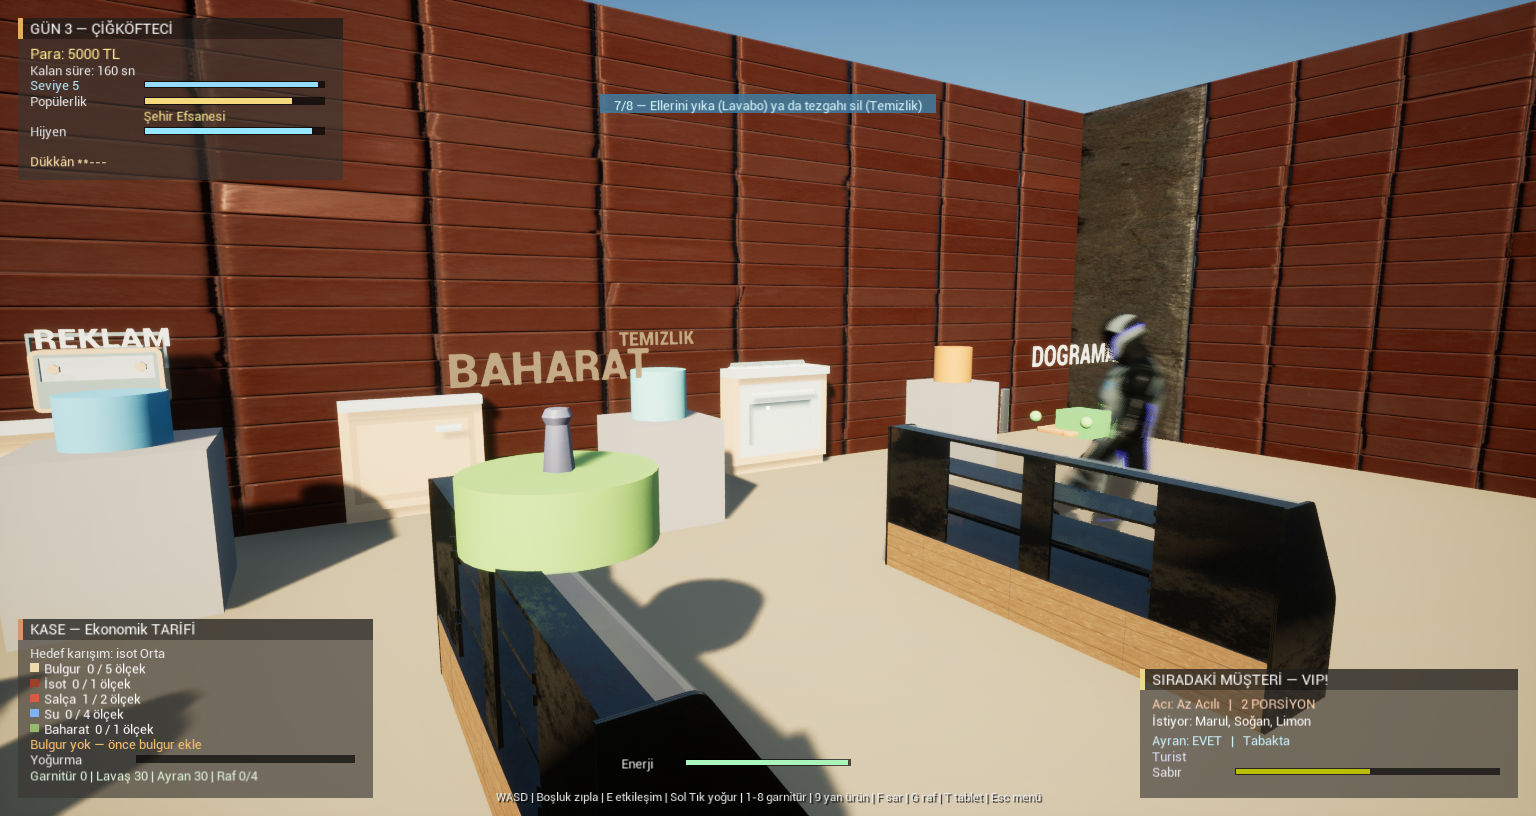
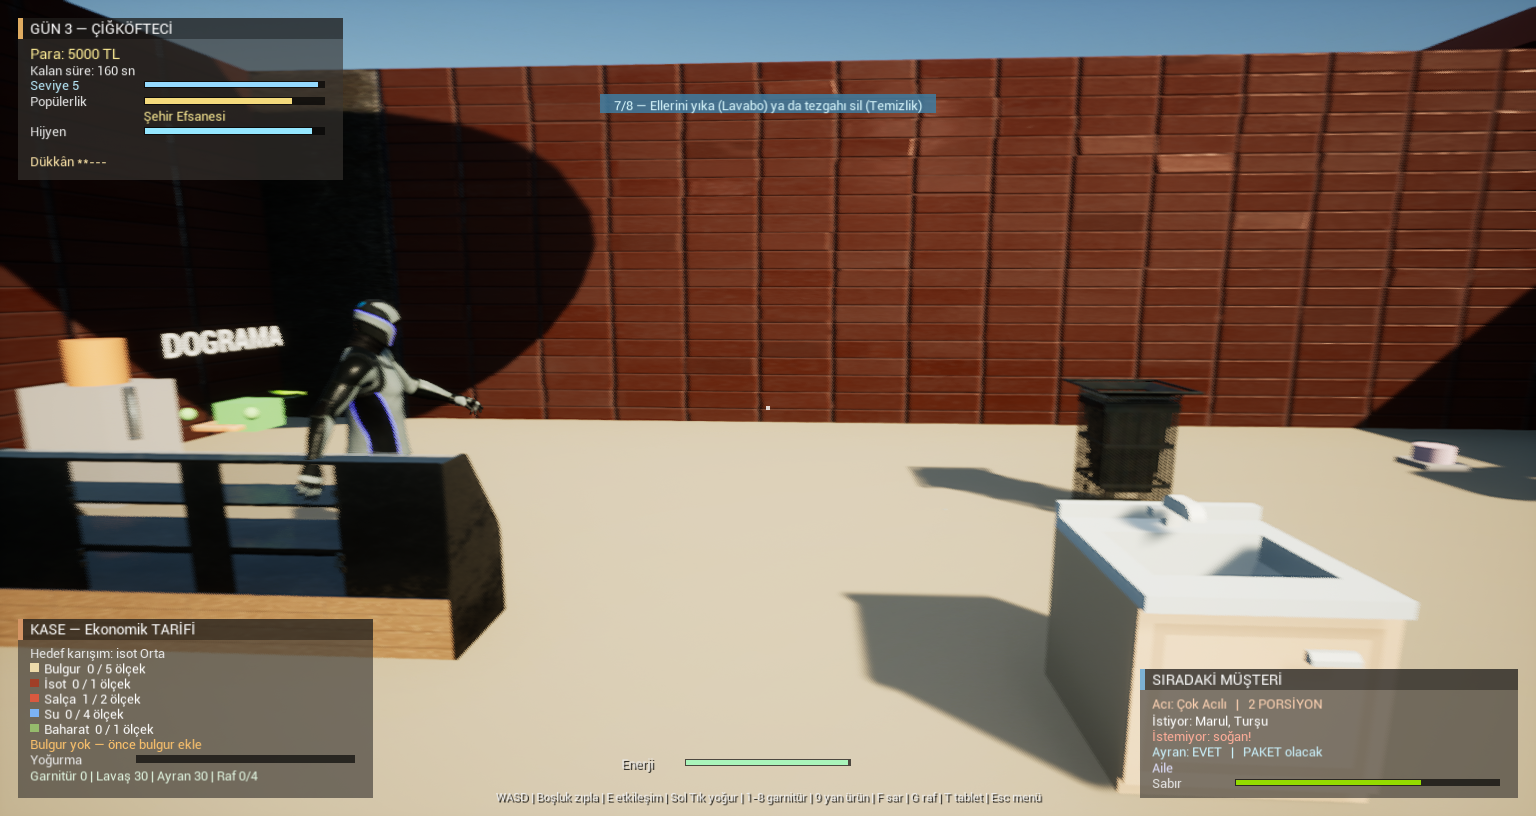
perf: the shop is 17% faster, and the first attempt at it was wrong
Per-stop slicing had already said the two indoor views cost 13.4 ms against 10
outdoors. Measure-Performance.ps1 now prints the scene columns per stop as well,
which answers the question that follows immediately: the shop was drawing 523
shadow depth calls a frame against the street's 53.

The first attempt was to stop the small props casting - tubs, dough, scoops, chop
fragments, topping pieces, signage. A movable point light renders six cube faces
per primitive in its radius and that radius is full of small objects, so it looked
obvious.

It did nothing. 523 -> 495 calls and 13.44 -> 13.48 ms, which is noise. What that
ruled out was worth having: if removing eighty small primitives moves the number
by five percent, the cost is the large ones, and the only thing multiplying them
six times over is the light itself.

So the counter key light stops casting. It was the last point light still doing
so, kept on the argument that a bowl casting onto the counter is the reason the
light is there. The argument was fine and the measurement beat it:

  dukkan   13.44 -> 11.11 ms    shadow calls 523 -> 403
  oturma   13.36 ->  9.69 ms    shadow calls 256 -> 147
  GPU mem   1930 -> 1807 MB

74 -> 90 FPS in the room the whole game is played in, and 75 -> 103 in the
seating area. Checked in a screenshot: the sun still shadows the interior, the
counters still have shape, and the warm light still tints the counter without
casting. What is lost is the pool of shade under each tub.
[…]

diff --git a/Source/CigkofteSimulator/World/CigkofteStation.cpp b/Source/CigkofteSimulator/World/CigkofteStation.cpp
@@ -112,6 +112,26 @@ ACigkofteStation::ACigkofteStation()
 	Label->SetHorizontalAlignment(EHTA_Center);
 	Label->SetWorldSize(26.f);
 	Label->SetTextRenderColor(FColor::White);
+
+	// Nothing small on a counter casts a shadow.
+	//
+	// Measured per viewpoint: the shop interior was spending 523 draw calls a
+	// frame on shadow depths against the street's 53, and it is the one room the
+	// whole game is played in. The counter key light is a movable point light,
+	// which renders six cube faces for every primitive in its radius, and the
+	// radius is full of tubs, dough, scoops and signage.
+	//
+	// The counter itself keeps its shadow - that is the shape the room is read
+	// by. A tub's shadow on the counter it is standing on is not something
+	// anybody looks at, and the signage casting at all was never intentional.
+	for (UPrimitiveComponent* Small : { (UPrimitiveComponent*)Top, (UPrimitiveComponent*)Dough,
+		(UPrimitiveComponent*)Scoop, (UPrimitiveComponent*)Label })
+	{
+		if (Small)
+		{
+			Small->SetCastShadow(false);
+		}
+	}
 }
 
 void ACigkofteStation::Setup(ECigStation InType, const FLinearColor& Color, const FString& LabelText, float LabelYaw)
@@ -287,6 +307,7 @@ void ACigkofteStation::Setup(ECigStation InType, const FLinearColor& Color, cons
 			Piece->SetCollisionEnabled(ECollisionEnabled::NoCollision);
 			Piece->SetStaticMesh(i == 0 ? Cube : Sphere);
 			Piece->SetVisibility(false);
+			Piece->SetCastShadow(false); // same reasoning as the tubs
 			if (Mat)
 			{
 				// Lettuce green, and the cut pieces a shade lighter than the

diff --git a/Source/CigkofteSimulator/World/CigWorldBuilder.cpp b/Source/CigkofteSimulator/World/CigWorldBuilder.cpp
@@ -642,11 +642,18 @@ void UCigWorldBuilder::SpawnLights()
 				PC->SetLightColor(FLinearColor(1.f, 0.78f, 0.52f));
 				PC->SetAttenuationRadius(1250.f);
 				PC->SetIntensity(9000.f);
-				// The one point light that keeps its shadows. It is directly
-				// over the surface the player works at, where a hand and a bowl
-				// casting onto the counter is the whole reason the light is
-				// there. Its radius stops short of the walls, so it shadows the
-				// counter and not the room.
+				// This one used to keep its shadows, on the argument that a bowl
+				// casting onto the counter is the reason the light is there.
+				// The argument was fine and the measurement beat it.
+				//
+				// Per viewpoint, the shop interior was spending 495 draw calls a
+				// frame on shadow depths against the street's 59 - in the one
+				// room the whole game is played in. A movable point light draws
+				// six cube faces for every primitive in its radius, and at 1250
+				// this radius holds the counters, the walls and the furniture.
+				// Switching the small props off it first moved 523 to 495 and
+				// the frame time not at all, which is what pointed here.
+				PC->SetCastShadows(false);
 			}
 		}
 	}

diff --git a/Source/CigkofteSimulator/Orders/CigOrderSystem.cpp b/Source/CigkofteSimulator/Orders/CigOrderSystem.cpp
@@ -446,6 +446,10 @@ void UCigOrderSystem::UpdateToppingVisuals()
 				UStaticMeshComponent* SC = A->GetStaticMeshComponent();
 				SC->SetMobility(EComponentMobility::Movable);
 				SC->SetStaticMesh(Sphere);
+				// A pea of lettuce does not cast. Up to 42 of these sit inside
+				// the counter light's radius, and a movable point light draws six
+				// cube faces for each of them.
+				SC->SetCastShadow(false);
 				A->SetActorEnableCollision(false);
 				if (Mat)
 				{

diff --git a/docs/PERFORMANCE_BUDGET.md b/docs/PERFORMANCE_BUDGET.md
@@ -138,11 +138,52 @@ at the seating stop against three slow frames, and two at the shop against the
 same three — the counts and the hitches do not line up, so the interior cost is
 steady-state work and not first-sight shader compilation.
 
+## The shop interior, and one attempt that failed
+
+Per-stop slicing said the two indoor views cost 13.4 ms against 10 outdoors, and
+the scene columns said why: the shop was drawing **523 shadow depth calls a
+frame** against the street's 53.
+
+**First attempt: stop the small props casting.** Tubs, dough, scoops, chop
+fragments, topping pieces and the signage. Reasonable on the face of it — a
+movable point light renders six cube faces per primitive in its radius, and the
+counter light's radius is full of small objects.
+
+It did nothing. 523 → 495 shadow calls, and the frame went 13.44 → 13.48 ms,
+which is noise. The props were not the cost. What that ruled out was useful: if
+removing eighty small primitives moves the number by five percent, the cost is
+the large ones, and the only thing making them cast six times over is the light.
+
+**Second attempt: the counter key light stops casting.** It was the one point
+light still doing so, kept on the argument that a bowl casting onto the counter
+is the reason the light is there. The argument was fine; the measurement beat it.
+
+| | before | small props | key light off |
+|---|---:|---:|---:|
+| dukkan frame | 13.44 ms | 13.48 ms | **11.11 ms** |
+| dukkan shadow calls | 522.9 | 495.0 | **402.7** |
+| oturma frame | 13.36 ms | 13.72 ms | **9.69 ms** |
+| oturma shadow calls | 256.4 | 252.7 | **147.2** |
+| GPU memory peak | 1930 MB | 1934 MB | **1807 MB** |
+
+The shop is 17% faster and the seating area 27%. In the room the game is played
+in that is 74 → 90 FPS; in the seating area 75 → 103. GPU memory came down 123 MB
+with the shadow maps.
+
+Checked in a screenshot: the sun still shadows the interior, the counters still
+have shape, and the warm light still tints the counter without casting. What is
+lost is the pool of shade under each tub, which nobody was looking at.
+
+The small-prop change is kept even though it bought nothing measurable. Signage
+casting shadows was never intentional, and a pea of lettuce casting one is not
+either — but it is recorded here as what it was, which is a failed optimisation
+rather than a win.
+
 ## Still open
 
-- **The shop interior is the next thing to optimise**, and it is now identified
-  rather than guessed at. The whole-route average flatters it: 88 FPS across the
-  route, 74 FPS in the room the game is played in, with a 1% low of 41 FPS there.
+- The shop interior is still the most expensive view at 11.11 ms, but it is now
+  inside the 16.67 budget with room. The render thread across the route is 10.5 ms
+  against its own 8 ms target — the next thing, if there is a next thing here.
 - Load time and shipping build size have no numbers yet.
 - No minimum-spec machine has been tested. Everything above is one developer
   machine at 1080p, and the GPU budget in particular is that card's budget.
